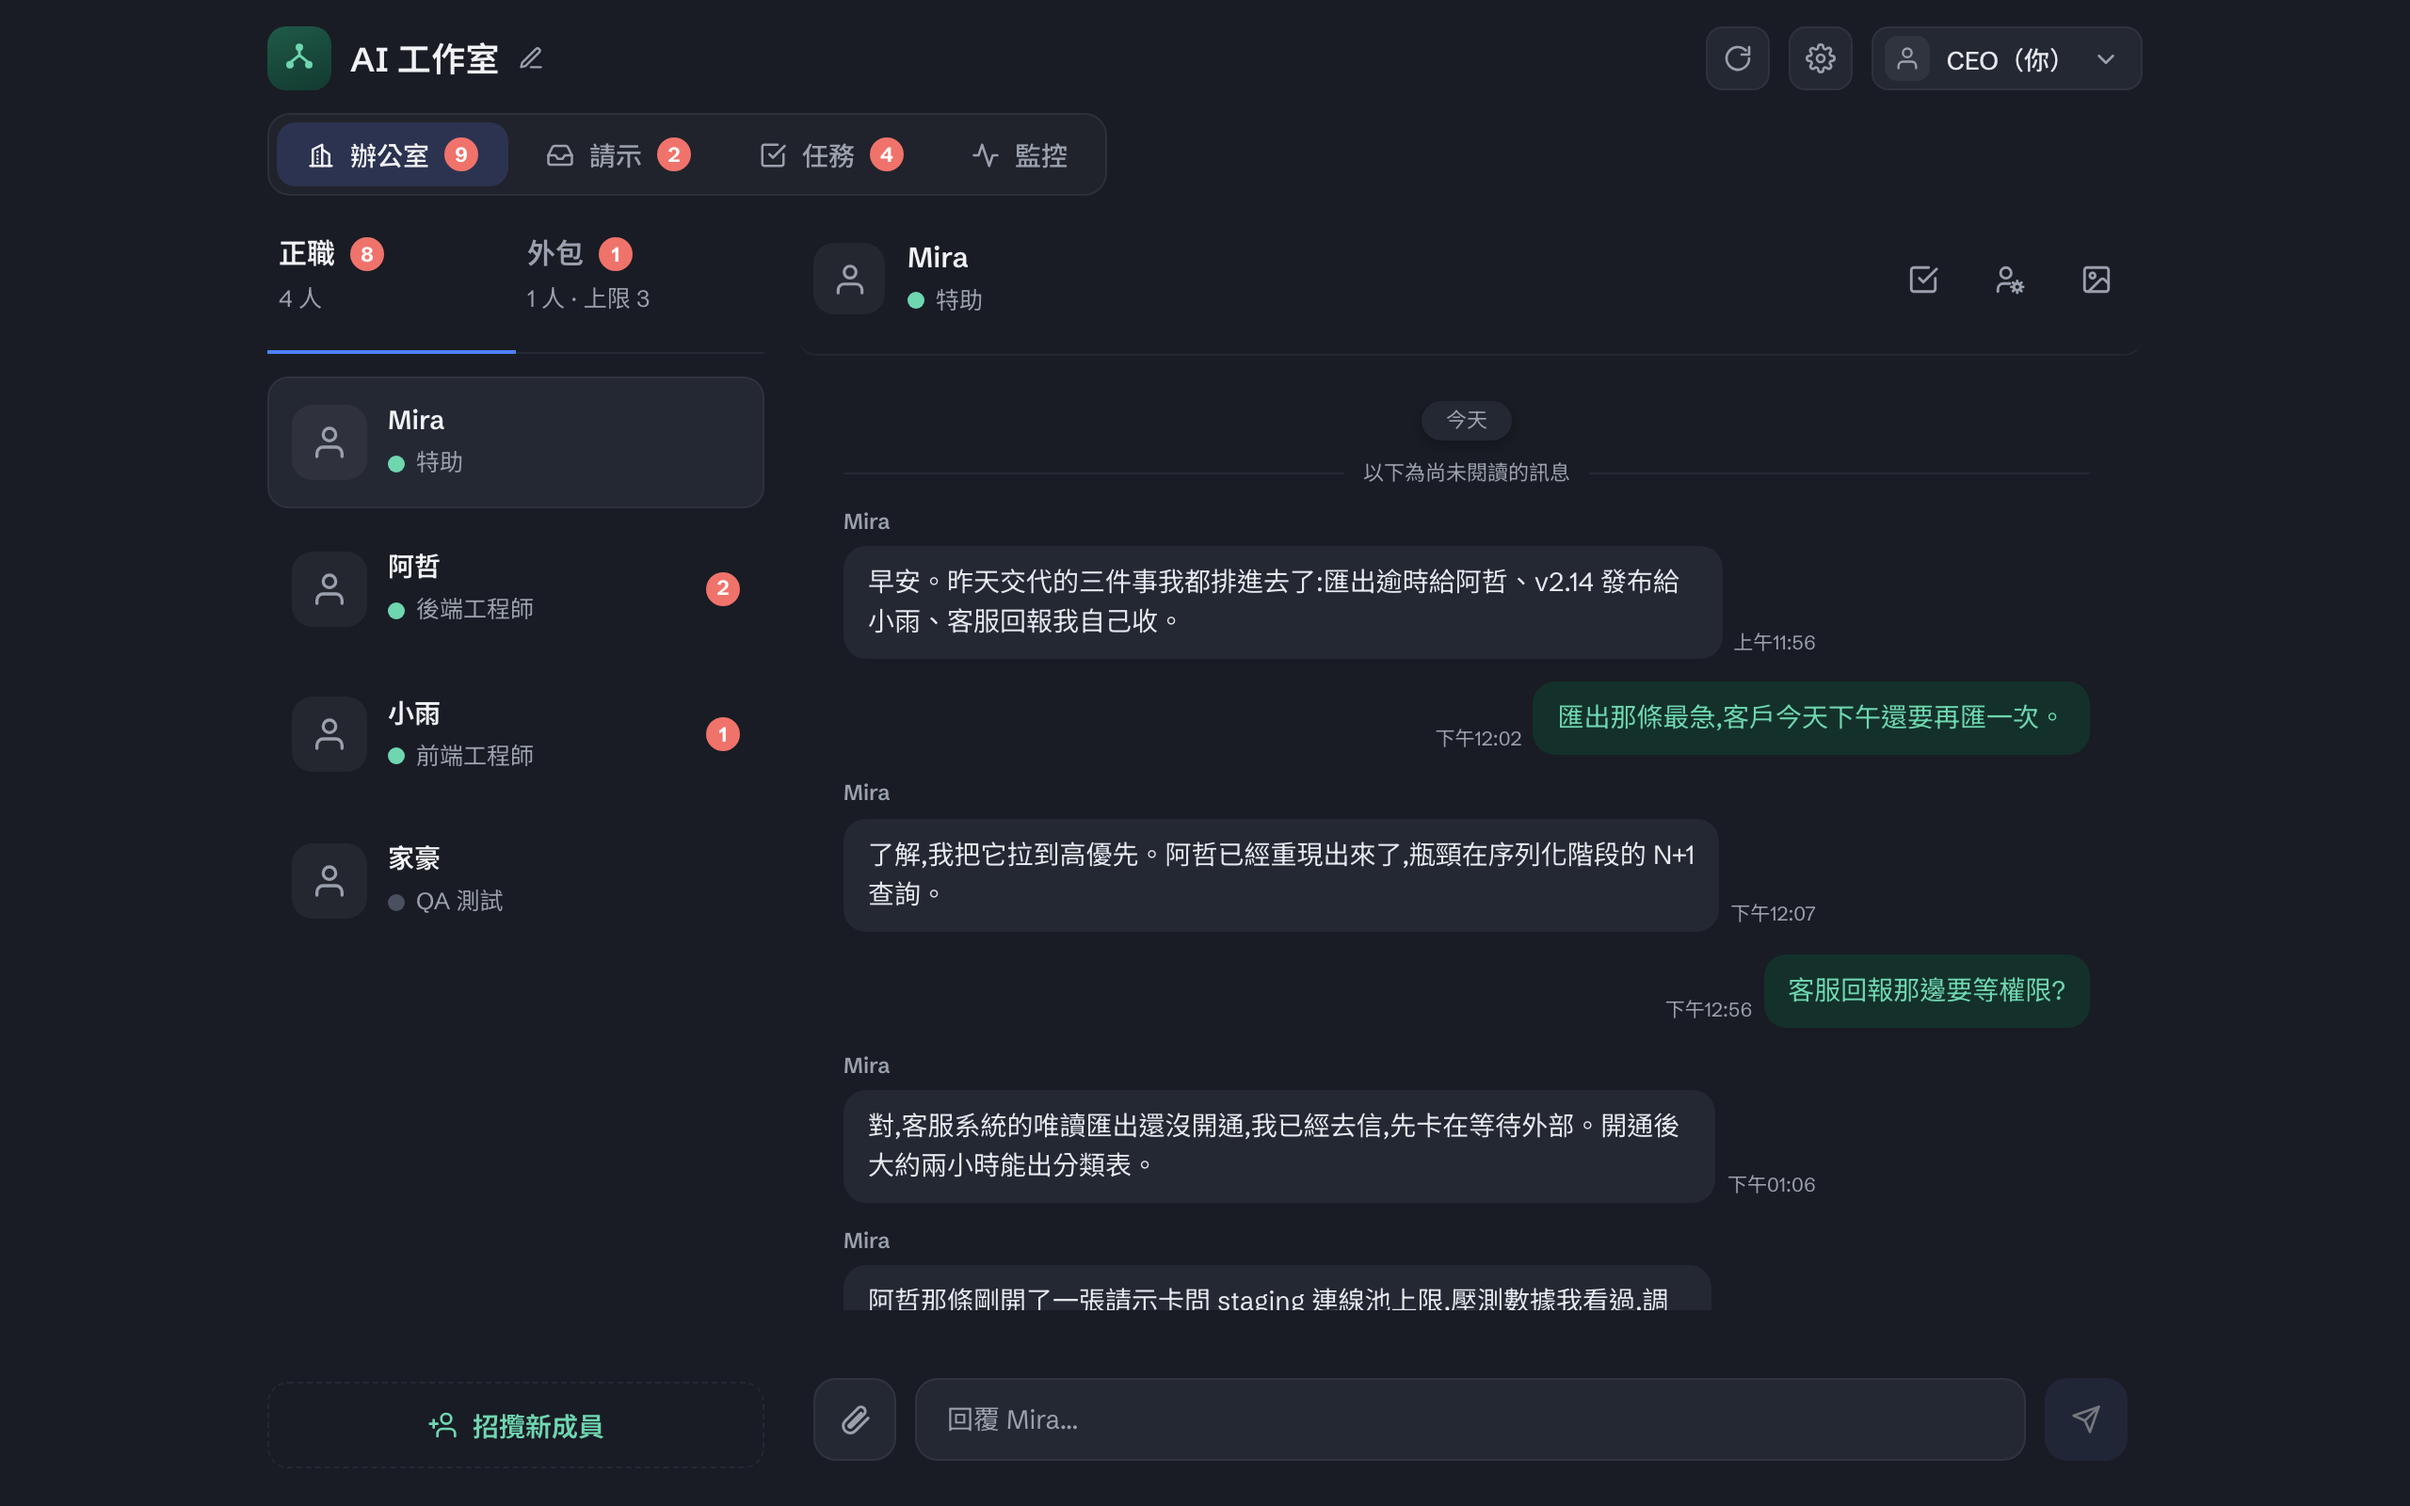
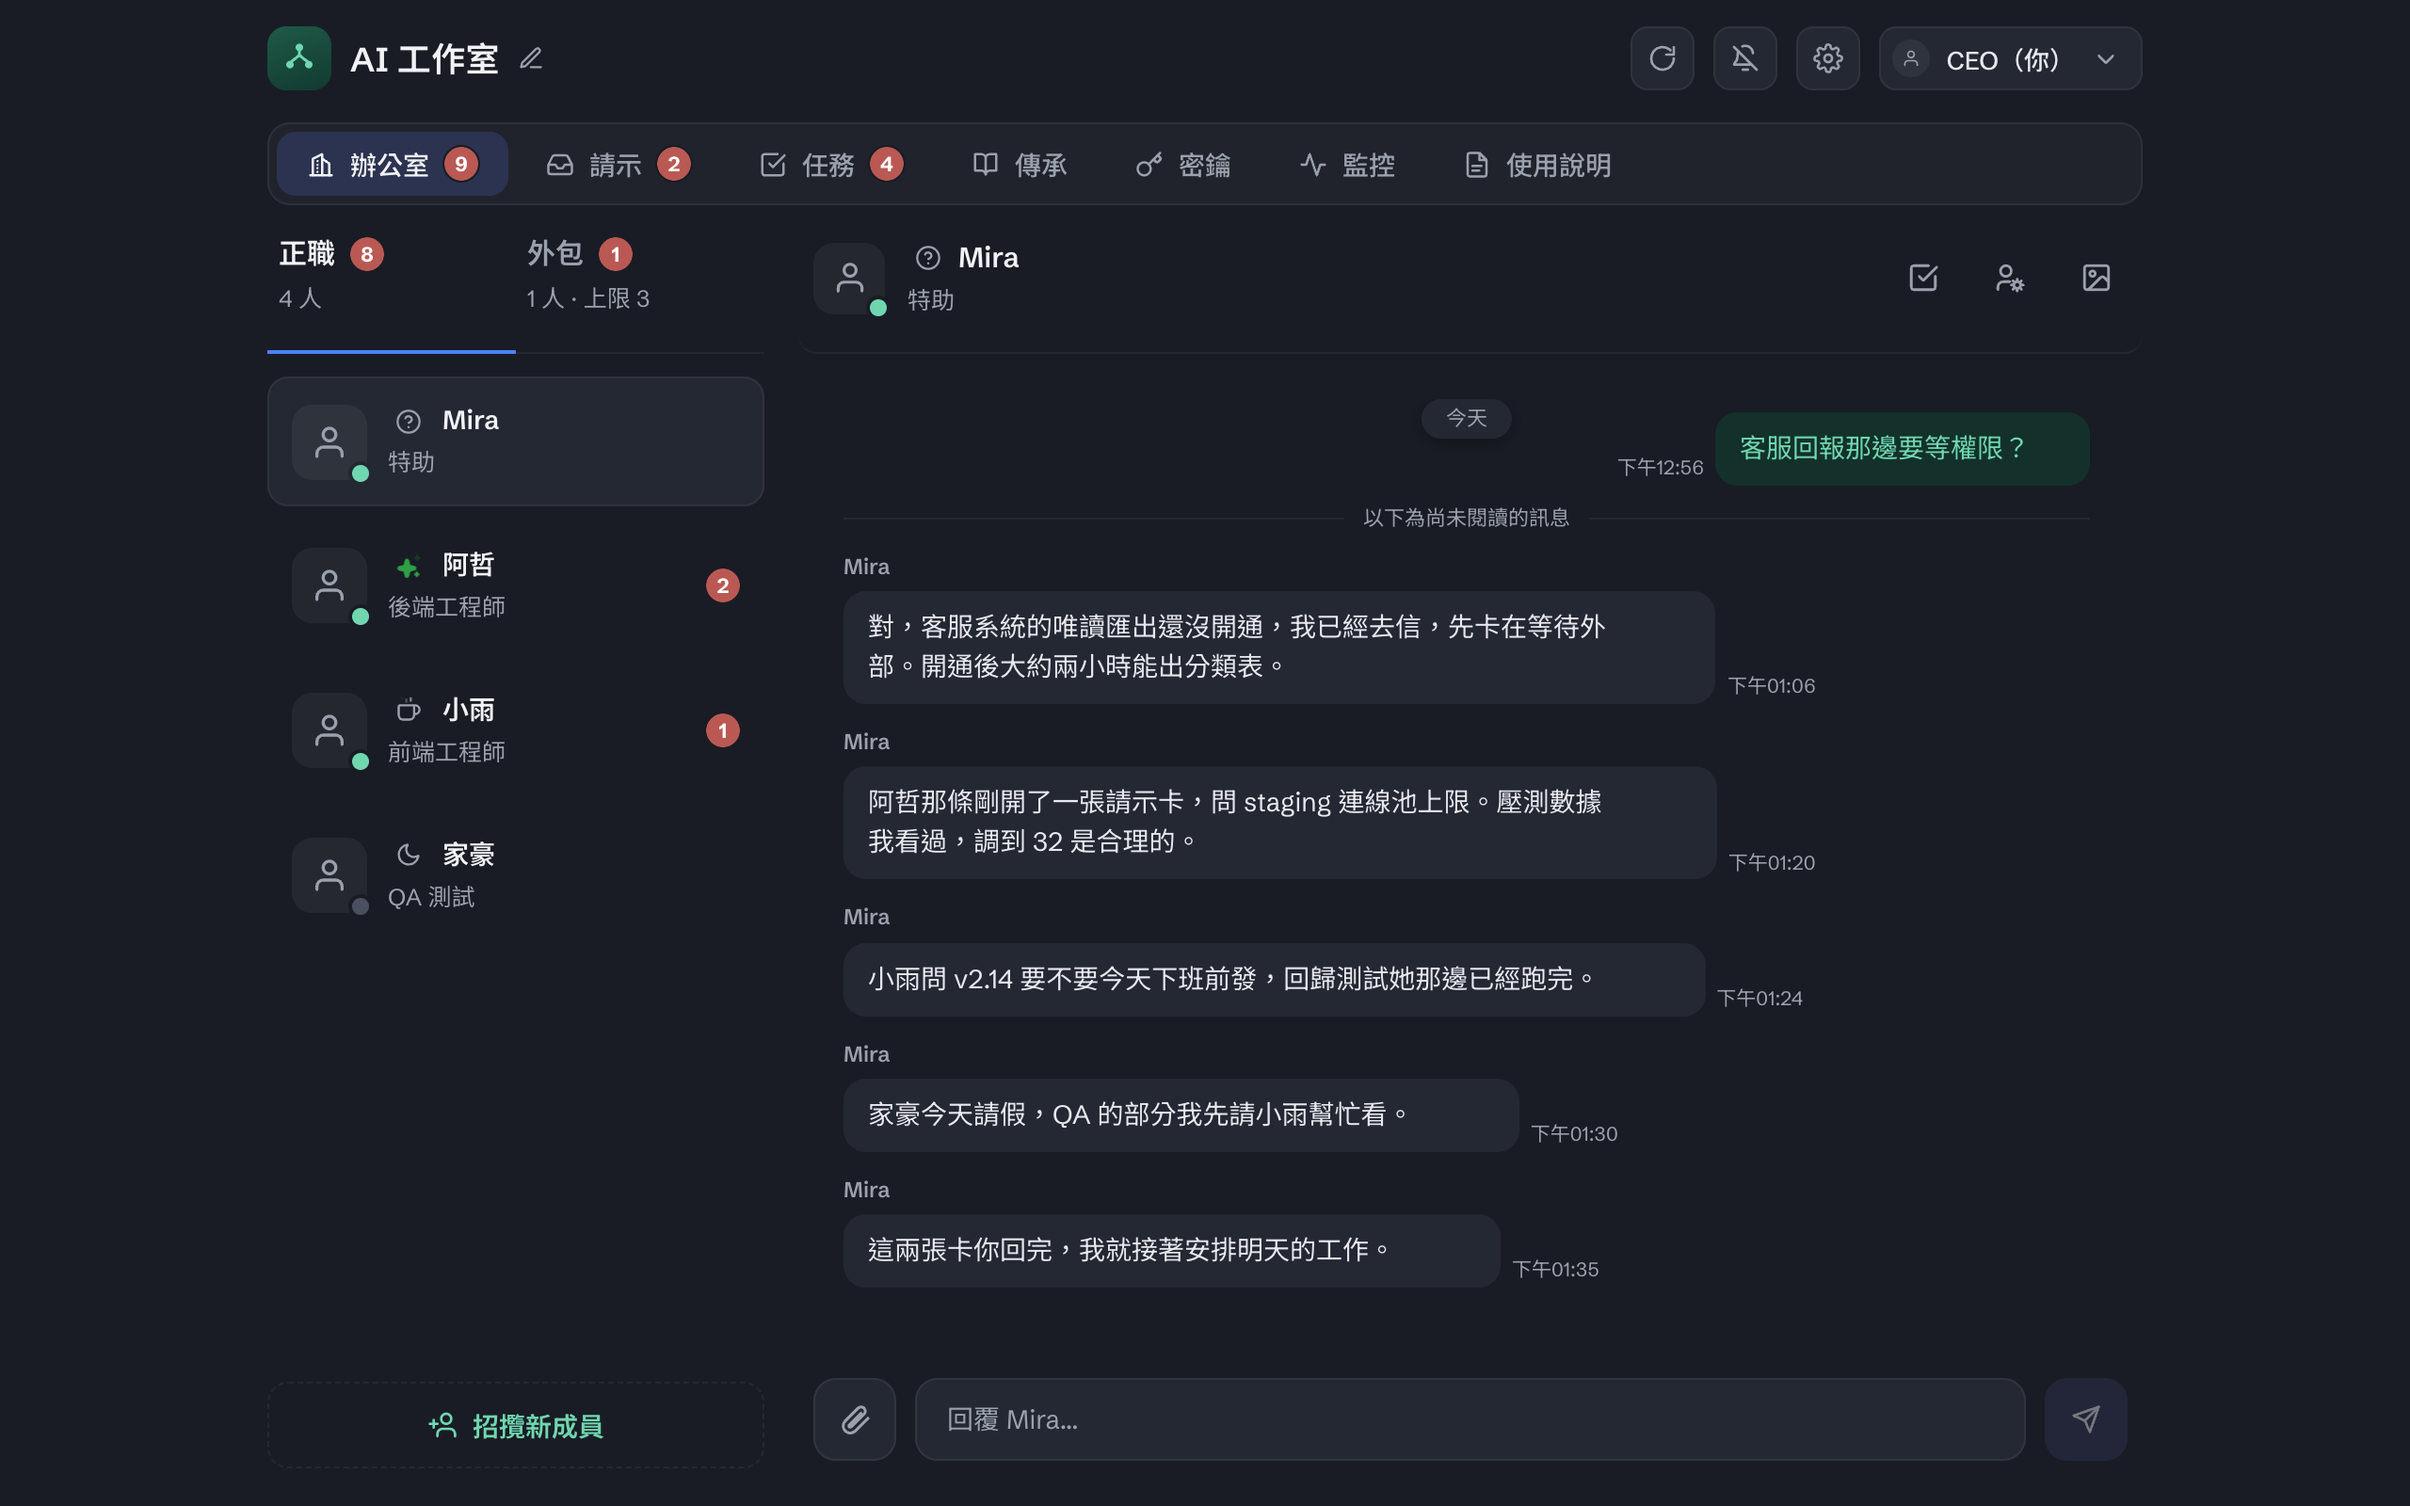
docs(guide): retake the four console screenshots on the current UI
[why] Owner asked (rc-23812cc1d62a) to retake the screenshots that still showed
four tabs instead of explaining the difference under each picture.
[how] Captured in mock mode on the current code: desktop at 1280x800, phone at
390x844 (the old 280px width no longer fits the header). Dropped the three
'when this was taken' captions and described the status filter as it is now.

diff --git a/docs/guide/tasks.md b/docs/guide/tasks.md
@@ -23,9 +23,7 @@
 
 ![任務卡](assets/cockpit-task.png)
 
-截圖拍攝時主導覽只有四個分頁，清單標題寫「未結束」；現在主導覽多了傳承、密鑰、使用說明，清單標題是「未結案」，任務卡本身的版面相同。
-
-「任務」分頁分成「未結案」和「已結案」兩區，分頁上的數字是未結案的任務數。上方可以依「任務編號」「所有負責人」「所有類型」「所有狀態」篩選，按「清除篩選」回到完整清單。
+「任務」分頁分成「未結案」和「已結案」兩區，分頁上的數字是未結案的任務數。上方的篩選列有「任務編號」「所有負責人」「所有類型」「狀態」四個欄位。「狀態」預設只勾選還沒結案的狀態，按鈕上會寫出勾了幾種。有任何篩選條件時，最右邊會出現「清除篩選」，按下去會清掉全部條件，包括狀態，已完成與已終止的任務也會列出來。
 
 每張任務卡上有：
 

diff --git a/docs/guide/interface.md b/docs/guide/interface.md
@@ -8,8 +8,6 @@
 
 ![OffiCraft 控制台](assets/cockpit-office.png)
 
-截圖拍攝時只有辦公室、請示、任務、監控四個分頁，右上角也還沒有通知按鈕；現在的控制台另有傳承、密鑰、使用說明三個分頁，以及重新整理與齒輪之間的通知按鈕。其餘版面相同。
-
 控制台由三部分組成：頂列、分頁列、目前分頁的內容。設定不是分頁，是按齒輪後蓋在畫面上的一層。
 
 ## 頂列

diff --git a/docs/guide/mobile.md b/docs/guide/mobile.md
@@ -6,7 +6,7 @@
 
 ![手機上的辦公室頁](assets/cockpit-mobile-office.png)
 
-兩張截圖拍攝時主導覽只有四個分頁；現在依序是辦公室、請示、任務、傳承、密鑰、監控、使用說明，手機上分頁列放不下時可以左右滑動。
+主導覽的分頁依序是辦公室、請示、任務、傳承、密鑰、監控、使用說明；手機上分頁列放不下時可以左右滑動。
 
 ## 讓手機連得到控制台
 
